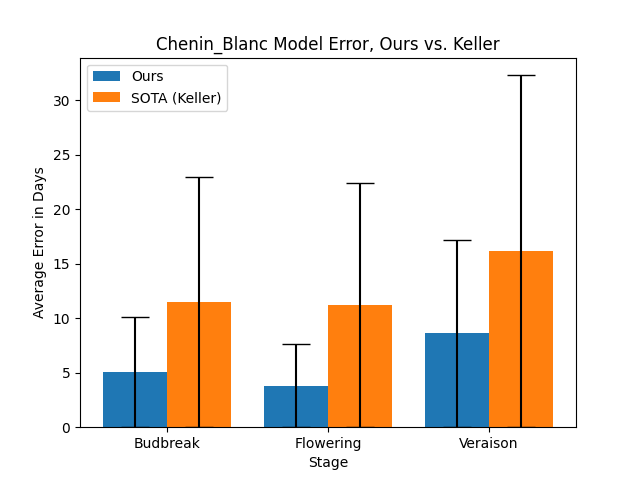
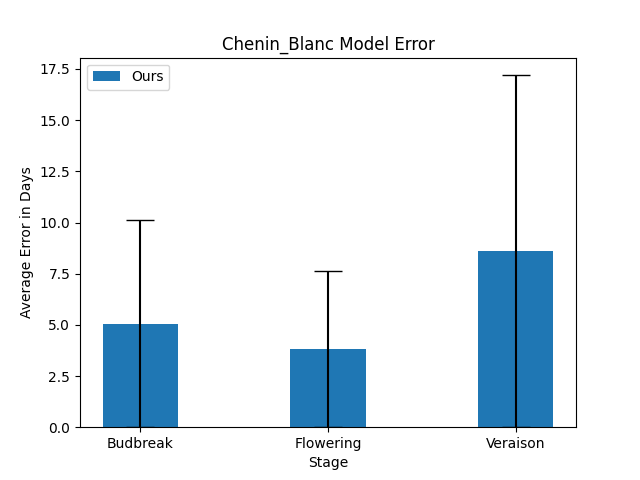
visualize data

diff --git a/bayesian_optimizer.py b/bayesian_optimizer.py
@@ -409,7 +409,7 @@ class BayesianNonDormantOptimizer():
         model_stage_args = np.argwhere(model_output == curr_stage).flatten()
         
         if len(true_stage_args) == 0 or len(model_stage_args) == 0:
-            return len(true_stage_args) + len(model_stage_args)
+            return (len(true_stage_args) + len(model_stage_args)) **2
         else:
             return (true_stage_args[0] - model_stage_args[0])**2
 
@@ -561,7 +561,9 @@ class BayesianNonDormantOptimizer():
         rmse = np.zeros((self.n_stages, len(true)))
         for s in range(self.n_stages):
             for i in range(len(true)):
+
                 avgs[s,i] = -BayesianNonDormantOptimizer.compute_SUM_SLICE(true[i], model[i], self.stages[s], [])
+                
                 if self.config.loss_func == "RMSE_DIFF":
                     rmse[s,i] = BayesianNonDormantOptimizer.compute_RMSE_DIFF(true[i],model[i], self.stages[s], [])
                 elif self.config.loss_func == "RMSE_SLICE":
@@ -598,6 +600,79 @@ class BayesianNonDormantOptimizer():
         plt.close()
 
     def plot_comparison_bar(self, param_set_1, param_set_2, path:str=None, data:list=None):
+        """
+        Plot the phenology graph for each year and the average
+        
+        """
+        if path is not None:
+            os.makedirs(f"{path}",exist_ok=True)
+        else:
+            os.makedirs(f"{self.fpath}/Phenology",exist_ok=True)
+        true = []
+        model_1 = []
+        model_2 = []
+
+        data_list = self.data_list if data is None else data
+
+        for data in data_list:
+            # Run model
+            true_output_1, model_output_1 = self.digtwin.run_from_data(data, args=param_set_1)
+            true_output_2, model_output_2 = self.digtwin.run_from_data(data, args=param_set_2)
+            true.append(true_output_1)
+            model_1.append(model_output_1)
+            model_2.append(model_output_2)
+
+            x = np.arange(len(true_output_1))
+            plt.figure()
+            plt.plot(x, true_output_1["PHENOLOGY"],label='True Data')
+            plt.plot(x, model_output_1["PHENOLOGY"], label='Our Model')
+            plt.plot(x, model_output_2["PHENOLOGY"], label='Keller Model')
+
+            start = true_output_1["DATE"].iloc[0]
+            end = true_output_1["DATE"].iloc[-1]
+            plt.title(f"{self.cultivar} Phenology from {start} to {end}")
+            plt.ylabel('Phenology Stage')
+            plt.yticks(ticks=[0,1,2,3,4,5], labels=['Ecodorm', 'BudBreak', 'Flower', 'Veraison', 'Ripe', 'Endodorm'], rotation=45)
+            plt.xlabel(f'Days since {start}')
+            plt.legend()
+            if path is None:
+                plt.savefig(f"{self.fpath}/Phenology/{self.cultivar}_PHENOLOGY_{start}.png")
+            else:
+                plt.savefig(f"{path}/{self.cultivar}_PHENOLOGY_{start}.png")
+            plt.close()
+
+        rmse = np.zeros((2, self.n_stages-1, len(true)))
+        for s in range(self.n_stages-1):
+            for i in range(len(true)):
+                rmse[0, s,i] = BayesianNonDormantOptimizer.compute_RMSE_STAGE(true[i],model_1[i], self.stages[s], [])
+                rmse[1, s,i] = BayesianNonDormantOptimizer.compute_RMSE_STAGE(true[i],model_2[i], self.stages[s], [])
+        
+        rmse_avg = np.sqrt(np.mean(rmse,axis=-1))
+        rmse_std = np.sqrt(np.mean(rmse,axis=-1))
+
+        with open("data.txt", "a") as f:
+            f.write(f"{self.cultivar}, {np.round(rmse_avg[0],decimals=4)}, {np.round(rmse_std[0],decimals=4)}\n")
+        f.close()
+        x = np.arange(self.n_stages-1)
+        plt.figure()
+        plt.bar(x, rmse_avg[0], 0.4, label='Ours')
+
+        plt.errorbar(x, rmse_avg[0], rmse_std[0], color="k", fmt='none', capsize=10)
+
+        plt.title(f"{self.cultivar} Model Error")
+        plt.xlabel("Stage")
+        plt.xticks(ticks=x, labels=self.stages[:-1], rotation=0)
+        plt.ylabel("Average Error in Days")
+        plt.legend()
+
+        if path is None:
+            plt.savefig(f"{self.fpath}/Phenology/{self.cultivar}_Error_Comparison.png")
+        else:
+            plt.savefig(f"{path}/{self.cultivar}_Error_Comparison.png")
+        plt.close()
+
+   
+    def plot_comparison_bar_old(self, param_set_1, param_set_2, path:str=None, data:list=None):
         """
         Plot the phenology graph for each year and the average
         

diff --git a/compare_models.py b/compare_models.py
@@ -22,9 +22,13 @@ def main():
     with open(f"configs/grape.yaml", "rb") as f:
         params = yaml.safe_load(f)
     
-    params_1 = params["CropParameters"]["Varieties"][f"{config.cultivar}"]
-    params_2 = params["CropParameters"]["Varieties"][f"{config.cultivar}_Keller"]
-
+    try: 
+        params_1 = params["CropParameters"]["Varieties"][f"{config.cultivar}"]
+        params_2 = params["CropParameters"]["Varieties"][f"{config.cultivar}_Keller"]
+    except:
+        params_1 = params["CropParameters"]["Varieties"][f"{config.cultivar}"]
+        params_2 = params["CropParameters"]["Varieties"][f"{config.cultivar}"]
+        
     params_1 = {k:v[0] for k, v in params_1.items()}
     params_2 = {k:v[0] for k, v in params_2.items()}
 
